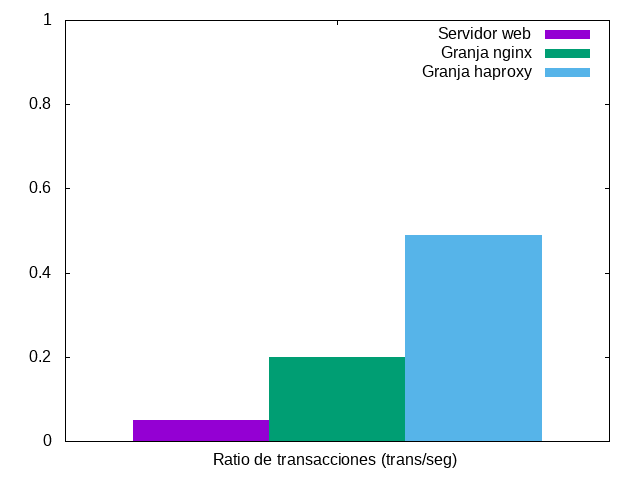
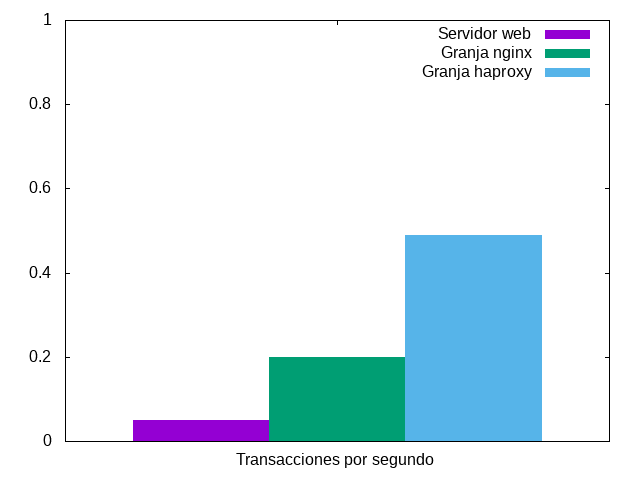
Terminada parte de siege

Changed region(s): [[0.3125, 0.9375, 0.7188, 0.9688]]

diff --git a/Práctica 4 - Comprobar el rendimiento de servidores web/README.md b/Práctica 4 - Comprobar el rendimiento de servidores web/README.md
@@ -312,9 +312,6 @@ Este [script](Scripts/ab.sh) que ejecuta 10 veces ab y calcula la media y la des
 </table>
 ![Gráfica ab-requestsPerSecond](Imágenes/ab-requestsPerSecond.png)
 
-
-
-
 ## Siege
 
 Instalamos siege desde los repositorios oficiales
@@ -328,14 +325,93 @@ Esta vez, por falta de tiempo, no usaremos script. Después de probar la misma p
 ```
 [antonio@Antonio-Arch ~]$ siege -c 10 -t60S -v www.servidorswap.net
 ```
+<table>
+  <tr>
+    <th colspan=3 style=text-align:center>Disponibilidad</th>
+  </tr>
+  <tr>
+    <th colspan=1 style=text-align:center>Servidor web</th>
+    <th colspan=1 style=text-align:center>Granja Nginx</th>
+    <th colspan=1 style=text-align:center>Granja Haproxy</th>
+  </tr>
+  <tr>
+    <td>25.00
+    <td>66.67
+    <td>100
+  </tr>
+</table>
 
 ![Gráfica siege-availability](Imágenes/siege-availability.png)
 
+<table>
+  <tr>
+    <th colspan=3 style=text-align:center>Peticiones fallidas</th>
+  </tr>
+  <tr>
+    <th colspan=1 style=text-align:center>Servidor web</th>
+    <th colspan=1 style=text-align:center>Granja Nginx</th>
+    <th colspan=1 style=text-align:center>Granja Haproxy</th>
+  </tr>
+  <tr>
+    <td>9
+    <td>6
+    <td>0
+  </tr>
+</table>
+
 ![Gráfica siege-failedRequests](Imágenes/siege-failedRequests.png)
+
+<table>
+  <tr>
+    <th colspan=3 style=text-align:center>Transacción más larga</th>
+  </tr>
+  <tr>
+    <th colspan=1 style=text-align:center>Servidor web</th>
+    <th colspan=1 style=text-align:center>Granja Nginx</th>
+    <th colspan=1 style=text-align:center>Granja Haproxy</th>
+  </tr>
+  <tr>
+    <td>28.47
+    <td>29.21
+    <td>22.34
+  </tr>
+</table>
 
 ![Gráfica siege-longestTransaction](Imágenes/siege-longestTransaction.png)
 
+<table>
+  <tr>
+    <th colspan=3 style=text-align:center>Peticiones correctas</th>
+  </tr>
+  <tr>
+    <th colspan=1 style=text-align:center>Servidor web</th>
+    <th colspan=1 style=text-align:center>Granja Nginx</th>
+    <th colspan=1 style=text-align:center>Granja Haproxy</th>
+  </tr>
+  <tr>
+    <td>3
+    <td>12
+    <td>29
+  </tr>
+</table>
+
 ![Gráfica siege-successful](Imágenes/siege-successful.png)
+
+<table>
+  <tr>
+    <th colspan=3 style=text-align:center>Transacciones por segundo</th>
+  </tr>
+  <tr>
+    <th colspan=1 style=text-align:center>Servidor web</th>
+    <th colspan=1 style=text-align:center>Granja Nginx</th>
+    <th colspan=1 style=text-align:center>Granja Haproxy</th>
+  </tr>
+  <tr>
+    <td>0.05
+    <td>0.20
+    <td>0.49
+  </tr>
+</table>
 
 ![Gráfica siege-transactionRate](Imágenes/siege-transactionRate.png)
 
